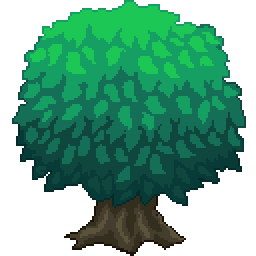
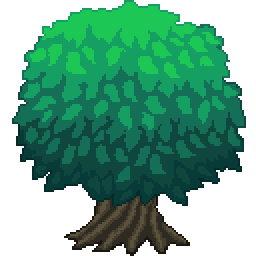
sort decorations for correct transparency

Changed region(s): [[0.3125, 0.7812, 0.75, 1.0], [0.25, 0.9062, 0.2812, 0.9375]]

diff --git a/FalpGL/src/game/Decoration.cpp b/FalpGL/src/game/Decoration.cpp
@@ -72,6 +72,11 @@ void Decoration::fade(float opacity)
 	vertex_data[19] = opacity;
 }
 
+bool Decoration::compare_decoration::operator()(const Decoration& a, const Decoration& b)
+{
+	return (a.y > b.y);
+}
+
 float* Decoration::data()
 {
 	return &vertex_data[0];
@@ -103,20 +108,22 @@ Decoration_Renderer::Decoration_Renderer(nlohmann::json tileset_json, nlohmann::
 	dec_vertex_array.AddBuffer(dec_vertex_buffer, layout);
 }
 
-void Decoration_Renderer::init(nlohmann::json tileset_json, nlohmann::json decorations)
+void Decoration_Renderer::init(nlohmann::json tileset_json, nlohmann::json decorations_json)
 {
 	decoration_set.init(tileset_json, texture_index);
 
 
-	int amount = decorations["objects"].size();
+	int amount = decorations_json["objects"].size();
 	console_log("[INFO]: Loading " + std::to_string(amount) + " objects");
 	dec_vertex_buffer.init(amount * 20 * sizeof(float));
 	dec_index_buffer.init(amount);
 
-	for (auto d : decorations["objects"])
+	for (auto d : decorations_json["objects"])
 	{
 		add_decoration(Decoration(d, decoration_set));
 	}
+
+	std::sort(decorations.begin(), decorations.end(), Decoration::compare_decoration());
 
 	VertexBufferLayout layout;
 	layout.Push<float>(2);

diff --git a/FalpGL/src/game/Decoration.h b/FalpGL/src/game/Decoration.h
@@ -13,14 +13,21 @@ protected:
 	bool nofade;
 
 public:
-	const float x, y;
-	const float center_x, center_y;
-	const float size_x, size_y;
-	const int id;
+	float x = 0;
+	float y = 0;
+	float center_x = 0;
+	float center_y = 0;
+	float size_x = 0;
+	float size_y = 0;
+	int id = 0;
 
 
 	Decoration(float x, float y, float size_x, float size_y, Prototype_Tile tile);
 	Decoration(nlohmann::json object, Tileset& set);
+
+	struct compare_decoration {
+		bool operator() (const Decoration& a, const Decoration& b);
+	};
 
 	void fade(float opacity = 1.0f);
 	float* data();
@@ -59,7 +66,7 @@ public:
 
 	bool collision(float x, float y);
 
-	void init(nlohmann::json tileset_json, nlohmann::json decorations);
+	void init(nlohmann::json tileset_json, nlohmann::json decorations_json);
 
 	void add_decoration(Decoration d);
 
